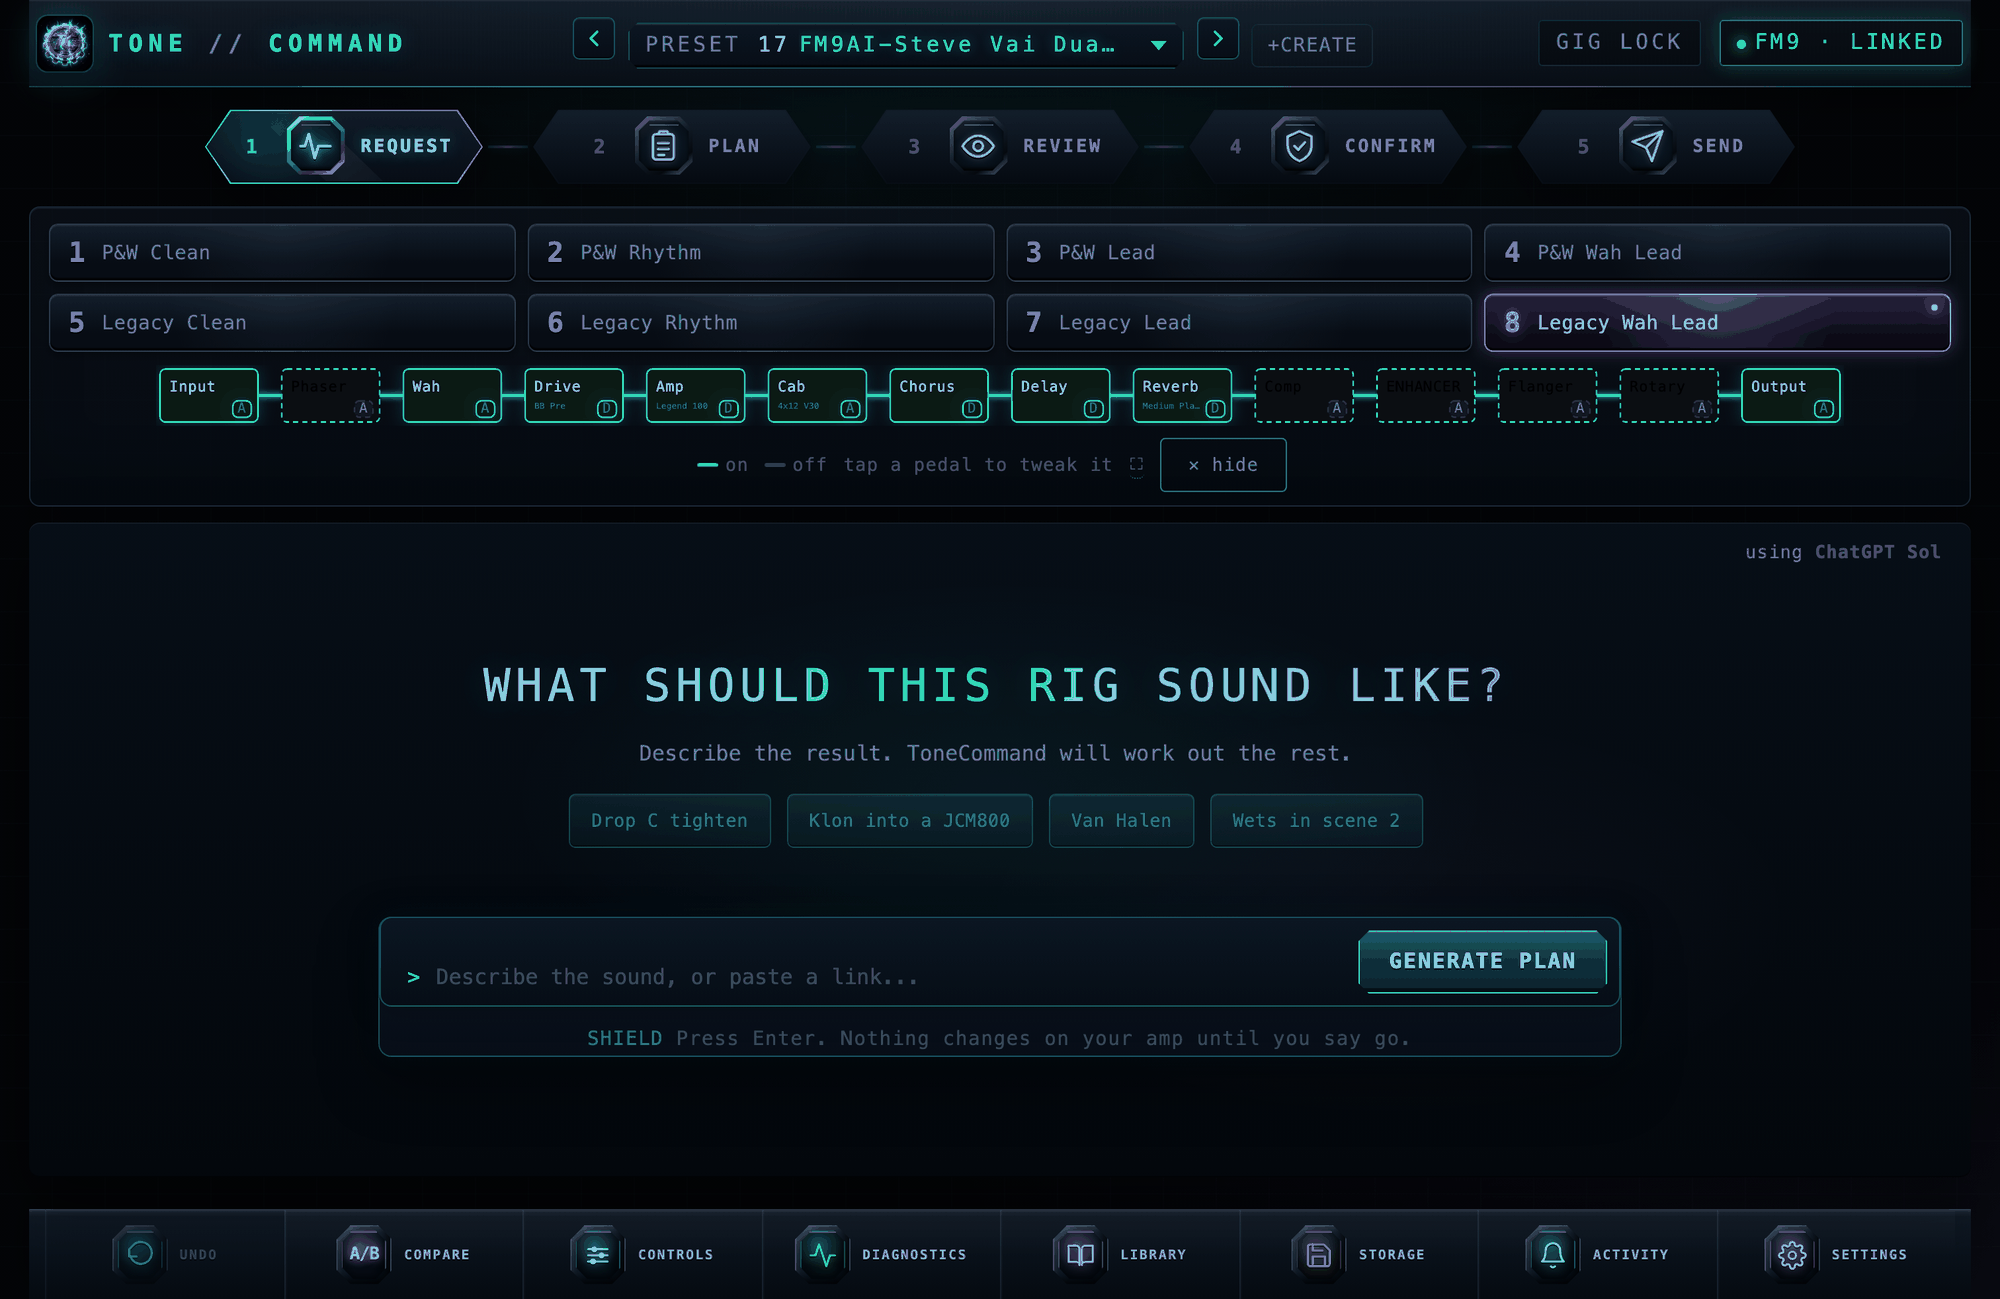
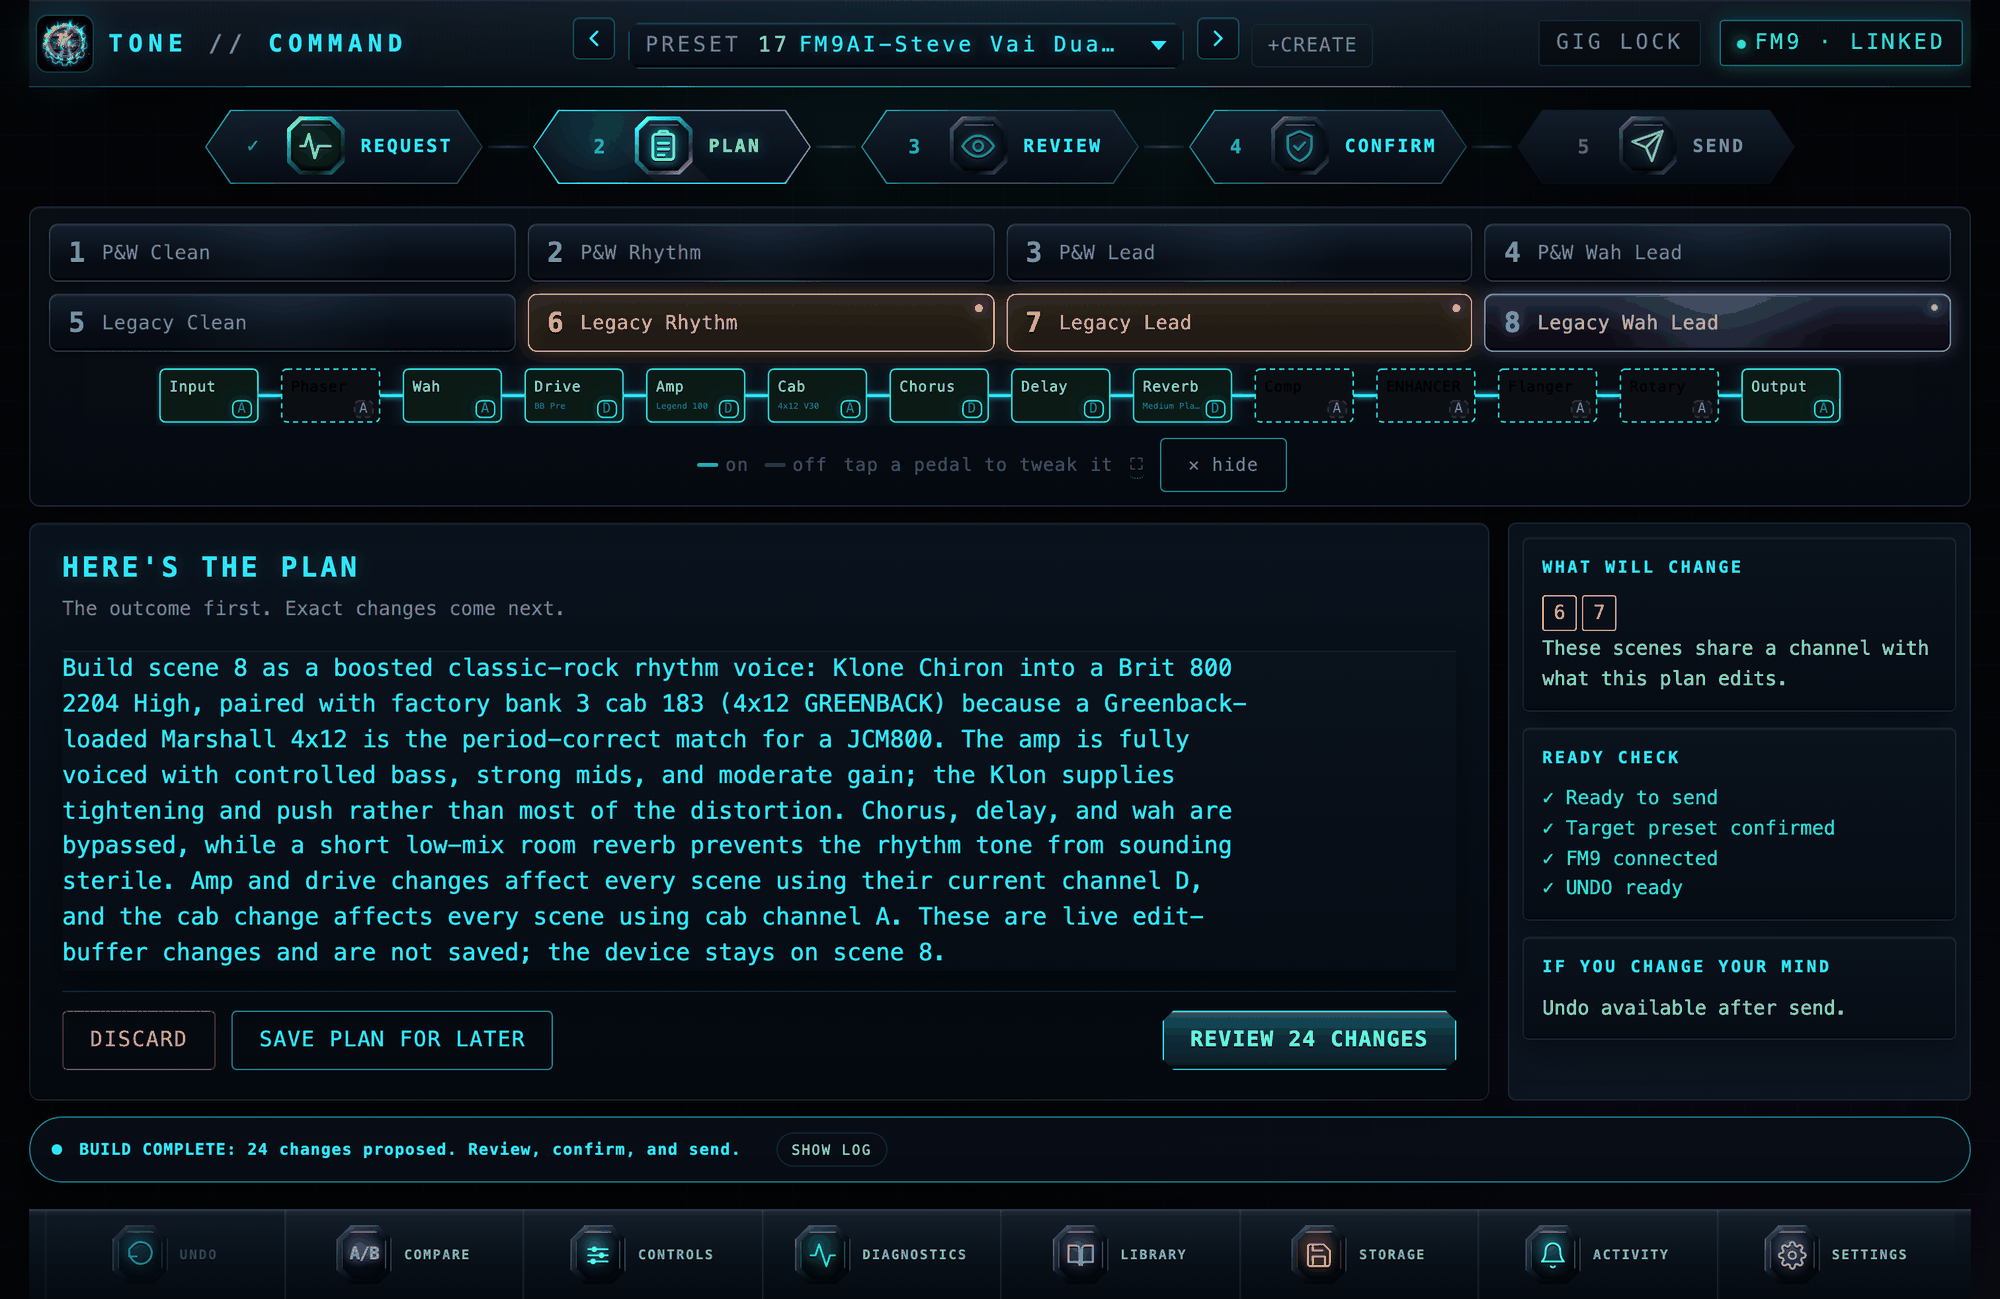
The full-page screenshot is a real plan, and site images can no longer go stale
The hero shot is now the PLAN stage of a request the README itself quotes,
run through the real planner on the connected FM9: 24 changes proposed, the
two scenes it would also move lit amber, nothing sent. The idle page read as
the old screenshot. tools/readme_shots.py takes it this way by default and
keeps --empty for the idle page.

Site image URLs carry a content hash. The site caches images for a day and a
re-taken screenshot with the same filename was served from that cache.

diff --git a/tools/readme_shots.py b/tools/readme_shots.py
@@ -34,6 +34,10 @@ import ui_probe  # noqa: E402
 from PIL import Image  # noqa: E402
 
 URL = "http://127.0.0.1:8909/"
+#: A request the README itself quotes. It goes through whatever planner the
+#: app is set to, so it costs whatever that planner costs (a subscription
+#: backend costs nothing per call; an API-key backend costs cents).
+REQUEST = "a Klon into a JCM800 with a greenback 4x12"
 ROOT = Path(__file__).resolve().parent.parent
 SIZES = {"ui-full": 2000, "audition-amp": 1800, "audition-cab": 1800, "graphic-eq": 1800,
          "pedal-and-bypass": 1800, "blast-radius": 1800, "health-scan": 1200}
@@ -54,7 +58,7 @@ def finish(img: Image.Image, name: str, out: Path) -> None:
     print(f"{name}.png: {q.width}x{q.height}, {(out / f'{name}.png').stat().st_size // 1024} KB")
 
 
-async def run(out: Path) -> int:
+async def run(out: Path, empty: bool) -> int:
     ui_probe.start_chrome(quiet=True)
     conn = await ui_probe.Tab.open()
     async with conn as ws:
@@ -92,9 +96,31 @@ async def run(out: Path) -> int:
         before = state()
         print("rig:", before["preset"]["label"], before["preset"]["name"], "scene", before["scene"]["number"])
 
-        # the whole page
+        # the whole page, at the PLAN stage of a real request through the real
+        # planner: proposed, never sent. --empty takes the idle page instead.
         await fresh()
-        finish(await grab(["body"], True, pad=0), "ui-full", out)
+        if not empty:
+            await js("(() => { const p = document.getElementById('prompt'); p.value = "
+                     + json.dumps(REQUEST) + "; p.dispatchEvent(new Event('input', {bubbles: true}));"
+                     " submitRequest(); return 1; })()")
+            for _ in range(300):
+                await asyncio.sleep(1)
+                st = json.loads(await js("JSON.stringify({plan: !document.getElementById('pane-plan').hidden,"
+                                         " cards: document.querySelectorAll('#plancards > *').length,"
+                                         " ask: typeof chatNeedsAnswer !== 'undefined' && chatNeedsAnswer})"))
+                if st["plan"] and st["cards"]:
+                    break
+                if st["ask"]:
+                    print("the planner asked a question instead of planning; taking the idle page", file=sys.stderr)
+                    await fresh()
+                    break
+            else:
+                print("no plan within five minutes; taking the idle page", file=sys.stderr)
+                await fresh()
+            await asyncio.sleep(2.0)
+            await js("window.scrollTo(0, 0)")
+        finish(await grab(["body"], False, pad=0), "ui-full", out)
+        await js("typeof discardPlan === 'function' && discardPlan()")
 
         # auditions: the popover is position:fixed, so capture the viewport
         for kind, filt in (("amp", None), ("cab", "v30")):
@@ -169,6 +195,8 @@ async def run(out: Path) -> int:
 def main() -> int:
     ap = argparse.ArgumentParser(description=__doc__.split("\n")[0])
     ap.add_argument("--out", default=str(ROOT / "docs" / "img"))
+    ap.add_argument("--empty", action="store_true",
+                    help="full-page shot of the idle page, without running the planner")
     args = ap.parse_args()
     try:
         st = state()
@@ -177,7 +205,7 @@ def main() -> int:
     if not st.get("connected"):
         sys.exit("no FM9 connected: the README promises live screenshots, not simulator ones")
     out = Path(args.out); out.mkdir(parents=True, exist_ok=True)
-    return asyncio.run(run(out))
+    return asyncio.run(run(out, args.empty))
 
 
 if __name__ == "__main__":

diff --git a/site/build.py b/site/build.py
@@ -121,6 +121,17 @@ ROUTES = {
     "CHANGELOG.md": "/docs/changelog/",
 }
 
+def img_url(name: str) -> str:
+    """/img/<name> with a content hash, so a re-taken screenshot that keeps
+    its filename is never served stale by a browser or edge cache."""
+    f = IMG / name
+    if not f.exists():
+        return f"/img/{name}"
+    import hashlib
+    h = hashlib.sha256(f.read_bytes()).hexdigest()[:10]
+    return f"/img/{name}?v={h}"
+
+
 # Screenshots that are real captures of the running tool. The mock-up in the
 # same folder is deliberately not here: the README's promise is that nothing
 # shown is a mock-up.
@@ -158,7 +169,7 @@ def rewrite_link(target: str) -> str:
     if clean.startswith("docs/"):
         clean = clean[5:]
     if clean.startswith("img/"):
-        return f"/img/{clean[4:]}{frag}"
+        return img_url(clean[4:]) + frag
     if clean in ROUTES:
         return f"{ROUTES[clean]}{frag}"
     if clean.startswith("recipes/") and clean.endswith(".json"):
@@ -504,7 +515,7 @@ def build_home(readme: str, release: dict) -> None:
     <p class="version">Free and open source, Apache-2.0 · macOS, Windows and Linux · current release <a href="/download/">{html.escape(release['version'])}</a></p>
   </div>
   <figure class="hero-panel">
-    <img src="/img/ui-full.png" alt="{html.escape(caps.get('ui-full.png', 'The ToneCommand interface'))}" width="2000" height="1299" fetchpriority="high">
+    <img src="{img_url('ui-full.png')}" alt="{html.escape(caps.get('ui-full.png', 'The ToneCommand interface'))}" width="2000" height="1299" fetchpriority="high">
     <figcaption>Live from a connected FM9. Nothing on this page is a mock-up.</figcaption>
   </figure>
 </section>
@@ -566,7 +577,7 @@ def build_home(readme: str, release: dict) -> None:
     ui_md = re.sub(r"^!\[[^\]]*\]\([^)]*\)\s*$", "", ui_md, flags=re.M)  # the hero already shows it
     ui_html, _ = render_md(ui_md)
     shots = "".join(
-        f'<figure class="shot reveal" style="--i:{i}"><a href="/screenshots/"><img src="/img/{n}" alt="{html.escape(caps.get(n, n))}" loading="lazy"></a>'
+        f'<figure class="shot reveal" style="--i:{i}"><a href="/screenshots/"><img src="{img_url(n)}" alt="{html.escape(caps.get(n, n))}" loading="lazy"></a>'
         f'<figcaption>{html.escape(caps.get(n, n))}</figcaption></figure>'
         for i, n in enumerate(x for x in SCREENSHOTS if x != "ui-full.png" and (IMG / x).exists()))
     out.append(section("05", "The interface", f'<div class="shots">{shots}</div>' + ui_html))
@@ -645,7 +656,7 @@ def build_docs(release: dict) -> None:
 def build_screenshots(release: dict) -> None:
     caps = screenshot_captions()
     figs = "".join(
-        f'<figure><a href="/img/{name}"><img src="/img/{name}" alt="{html.escape(caps.get(name, name))}" loading="lazy"></a>'
+        f'<figure><a href="{img_url(name)}"><img src="{img_url(name)}" alt="{html.escape(caps.get(name, name))}" loading="lazy"></a>'
         f'<figcaption>{html.escape(caps.get(name, name))}</figcaption></figure>'
         for name in SCREENSHOTS if (IMG / name).exists()
     )

diff --git a/CHANGELOG.md b/CHANGELOG.md
@@ -49,8 +49,9 @@ Notable changes to ToneCommand. Dates are UTC.
 - **Every interface screenshot re-taken on the current UI**, live from a
   connected FM9: the full page, both auditions, the effects panel with its
   bypass and modifier badges and P2 buttons, the blast radius (scene rail
-  plus the WHAT WILL CHANGE card), and a health scan. `tools/readme_shots.py`
-  reproduces them. The graphic EQ shot is still the old one: this preset
+  plus the WHAT WILL CHANGE card), and a health scan. The full-page shot is
+  the PLAN stage of a real request through the real planner, proposed and
+  not sent. `tools/readme_shots.py` reproduces them. The graphic EQ shot is still the old one: this preset
   has no EQ block, and switching presets discards the edit buffer.
 
 ### Added

diff --git a/docs/INTERFACE.md b/docs/INTERFACE.md
@@ -4,7 +4,7 @@ The rule this UI is built to: **if you have to switch to FM9-Edit in the middle
 of a session, we have already lost.** Every panel is a control surface, not a
 readout.
 
-![The ToneCommand interface: the five-stage rail from REQUEST to SEND, the eight named scenes, the live signal chain, and the command bar](img/ui-full.png)
+![The ToneCommand interface at the PLAN stage: the request "a Klon into a JCM800 with a greenback 4x12" turned into 24 proposed changes, the two scenes it would also move lit amber, nothing sent yet](img/ui-full.png)
 
 *Everything above is live from a connected FM9. The cyan path is the signal
 actually reaching the output; the dashed blocks are bypassed but still passing

diff --git a/README.md b/README.md
@@ -203,7 +203,7 @@ instead of an invented answer.
 
 ## The interface
 
-![The ToneCommand interface: the eight named scenes, the request-to-send flow, and the command bar, live from a connected FM9](docs/img/ui-full.png)
+![The ToneCommand interface at the PLAN stage: the request "a Klon into a JCM800 with a greenback 4x12" turned into 24 proposed changes, the two scenes it would also move lit amber, nothing sent yet](docs/img/ui-full.png)
 
 Everything above is live from a connected FM9; nothing on this page is a
 mock-up. The full tour is in [docs/INTERFACE.md](docs/INTERFACE.md). The
